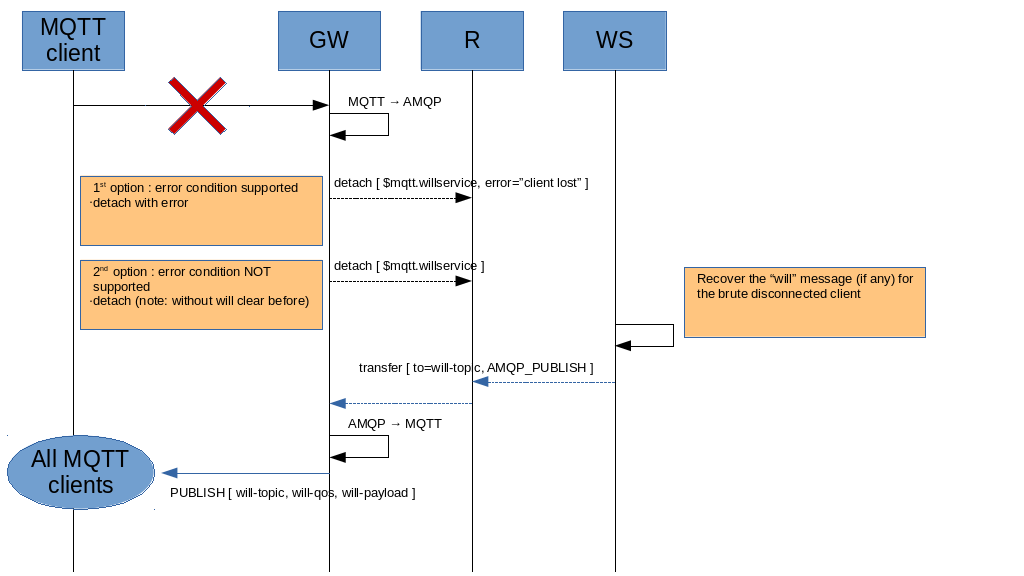
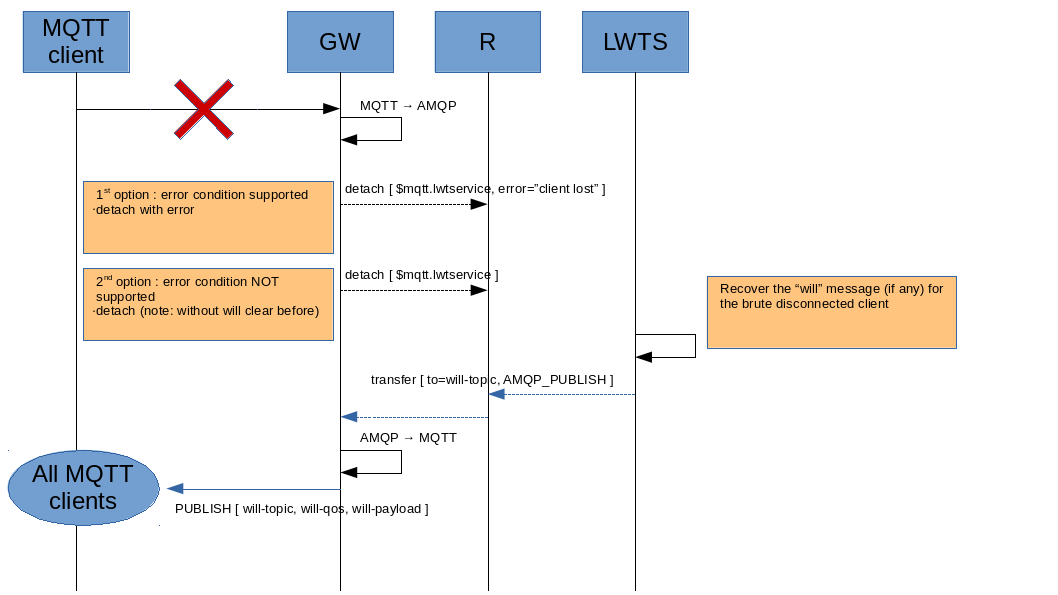
Updated images (with new LWTS name)

diff --git a/mqtt-over-amqp/docs/operations_connection.md b/mqtt-over-amqp/docs/operations_connection.md
@@ -47,7 +47,7 @@ The MQTT client sends a _CONNECT_ message to the FE which extracts "will" inform
 The _AMQP_WILL_ is sent as "unsettled", in order to know that the Last Will and Testament Service has received it (with related disposition).
 The relation between the _AMQP_WILL_ message and the related client, at AMQP level, is inferred by the link name attached to the WS control address.
 
-![Connect Last Will and Testament Service](../images/03_connect_ws.png)
+![Connect Last Will and Testament Service](../images/03_connect_lwts.png)
 
 The FE attaches a permanent link to the $mqtt.willservice address; the WS maps the link-name with the “will” information provided in order to have a 1-1 relationship between them. See “Disconnection”, in order to know how publishing “will” information could happen on client disconnection.
 

diff --git a/mqtt-over-amqp/docs/services_lwt_service.md b/mqtt-over-amqp/docs/services_lwt_service.md
@@ -2,7 +2,7 @@
 
 The Last Will and Testament Service (LWTS) has an AMQP receiver on the following control address :
 
-* $mqtt.willservice
+* $mqtt.lwtservice
 
 This receiver is attached with :
 
